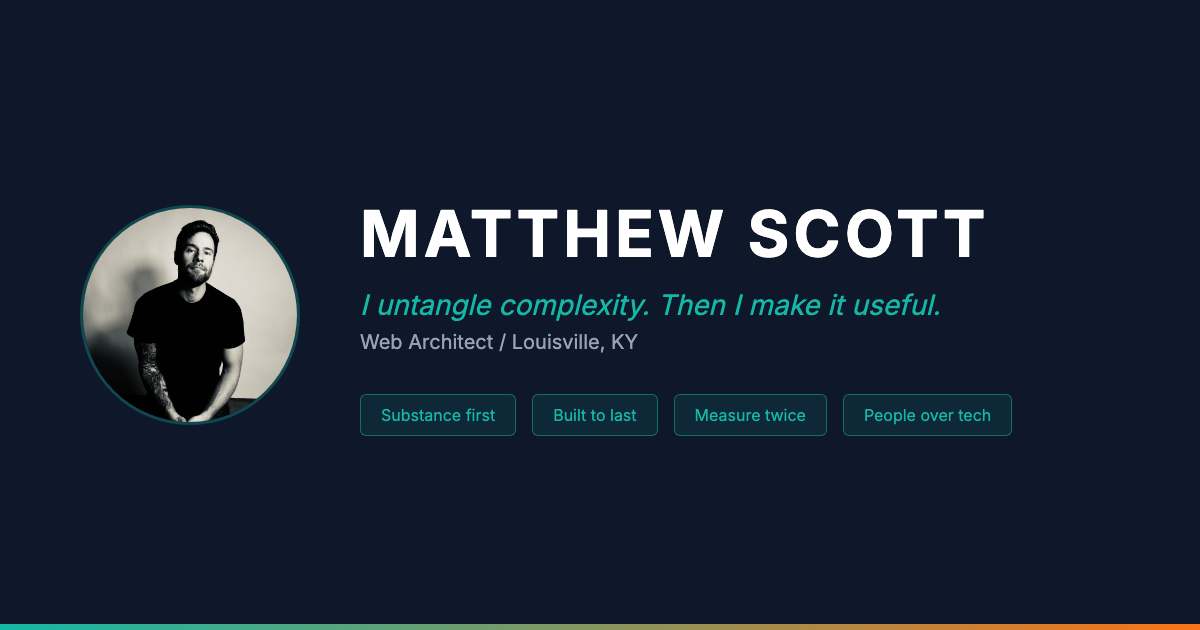
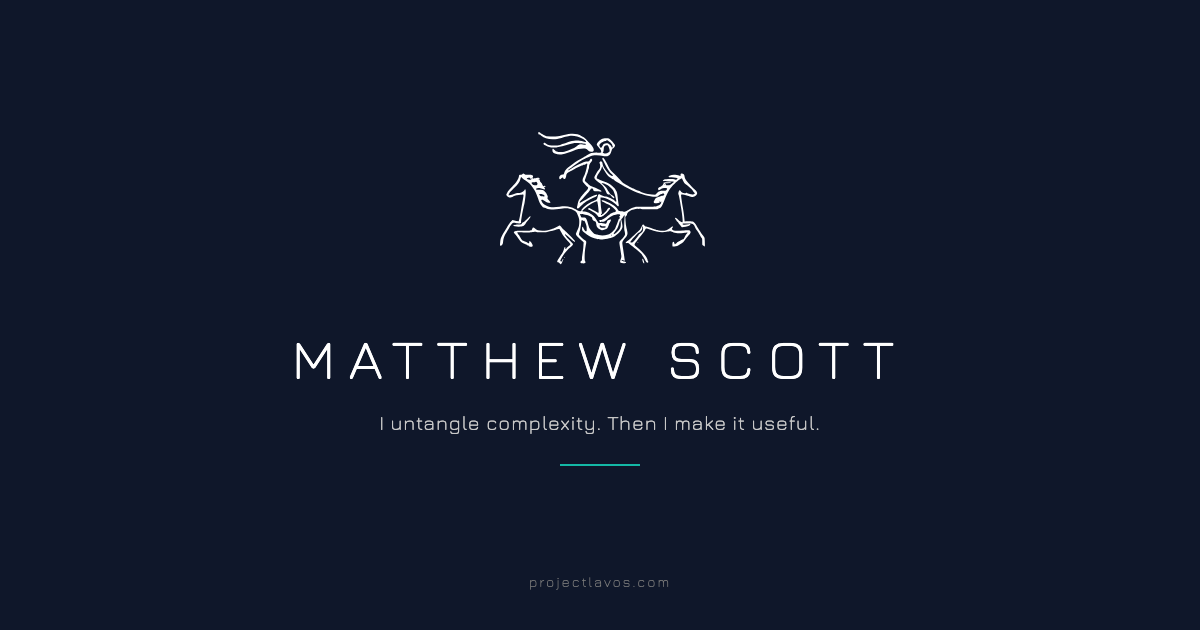
feat: update OG image with chariot insignia
- Replace geometric placeholder with actual chariot SVG
- Add Auriga Silence design philosophy document
- Playwright-rendered at exact 1200x630px for social sharing

🤖 Generated with [Claude Code](https://claude.com/claude-code)

diff --git a/main-site/design-philosophy-projectlavos-og.md b/main-site/design-philosophy-projectlavos-og.md
@@ -1,0 +1,19 @@
+# Auriga Silence
+
+A design philosophy of commanding restraint. The charioteer holds the reins with quiet authority - not through force but through precise, deliberate positioning. This is the visual language of someone who has mastered complexity and distilled it to essence.
+
+## The Visual Principle
+
+Space dominates. The deep void of slate-black serves not as emptiness but as the foundation from which singular elements emerge with absolute clarity. Every mark placed with the painstaking precision of astronomical cartography - no accidents, no decoration, only intentional presence. The work rewards sustained viewing: what appears minimal reveals depth through its calculated restraint. This is the product of countless hours of refinement, where removal was the hardest work.
+
+## Form and Hierarchy
+
+A single symbol commands the field - centered, breathing, occupying space without apology. Typography enters as whispered labels, thin and elegant, serving the visual rather than competing with it. The hierarchy is absolute: icon first, name second, everything else retreats to near-invisibility. Scale relationships are deliberate - the insignia massive relative to text, establishing visual weight that anchors the composition. Master-level execution demands this restraint: knowing exactly what to leave out.
+
+## Color as Architecture
+
+Near-monochrome discipline. The base: deepest slate approaching black (#0f172a). The primary mark: pure white, stark against the void. Accent appears only once, barely - a teal breath (#14b8a6) so subtle it might be imagined. This chromatic economy creates tension through absence. The eye searches for color and finds only the essential. Every hue earns its presence through ruthless selection, the result of painstaking chromatic calibration.
+
+## The Charioteer's Philosophy
+
+The insignia speaks of orchestration - one who guides powerful forces without becoming them. This is not the horse's raw energy nor the wheel's mechanical precision, but the hands that hold the reins. Typography should feel similarly authoritative yet understated: sans-serif, thin weight, generous letter-spacing that breathes. Words appear as coordinates on a star chart - precise, sparse, meaningful. The final composition must appear as though someone at the absolute top of their field labored over every millimeter with care.
